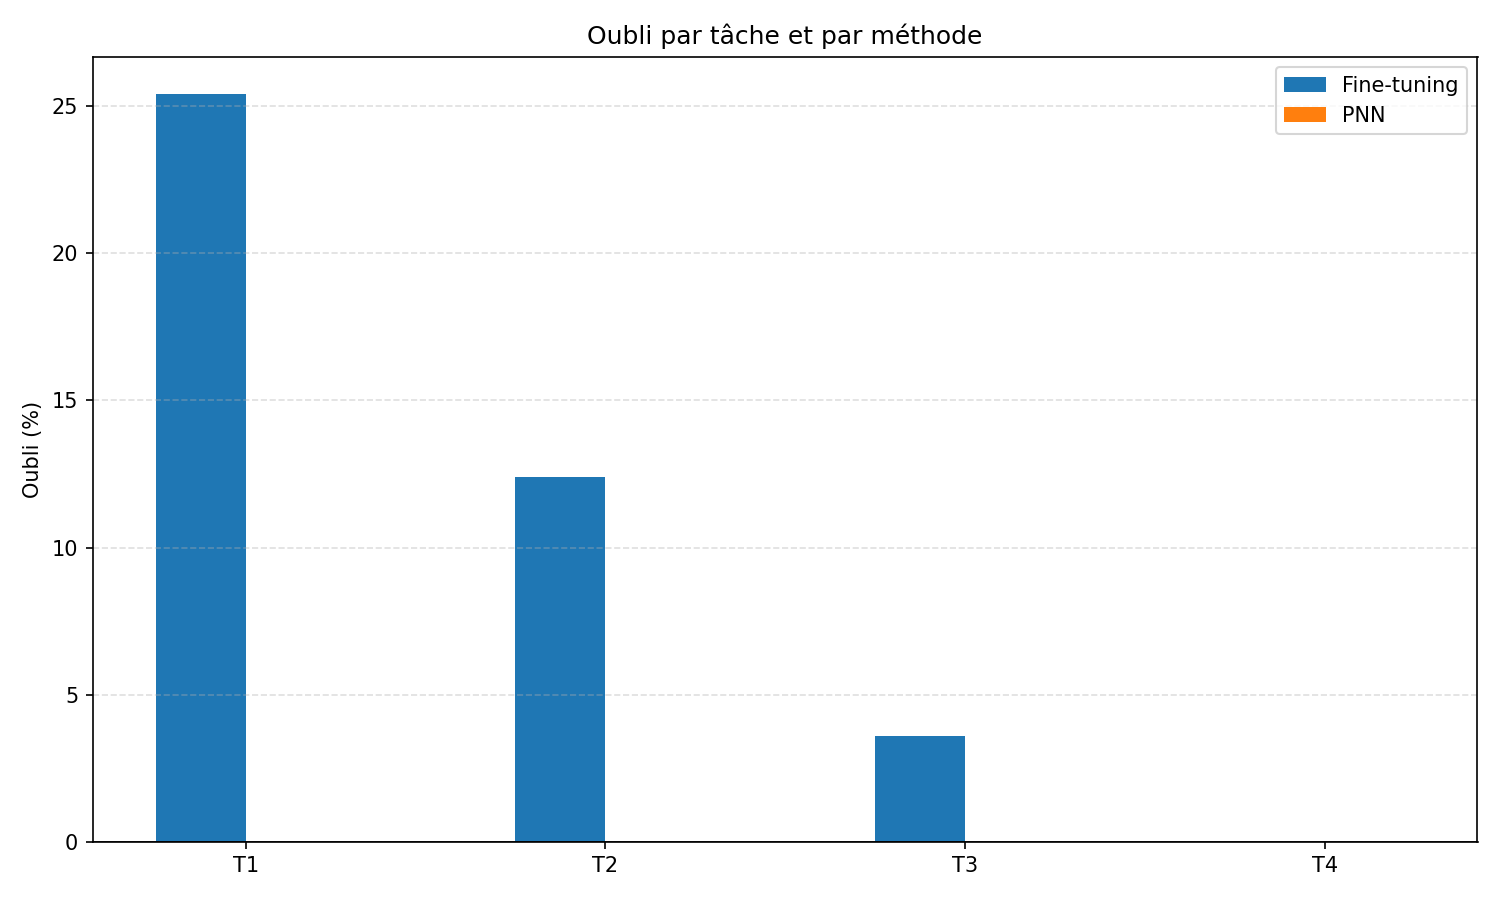
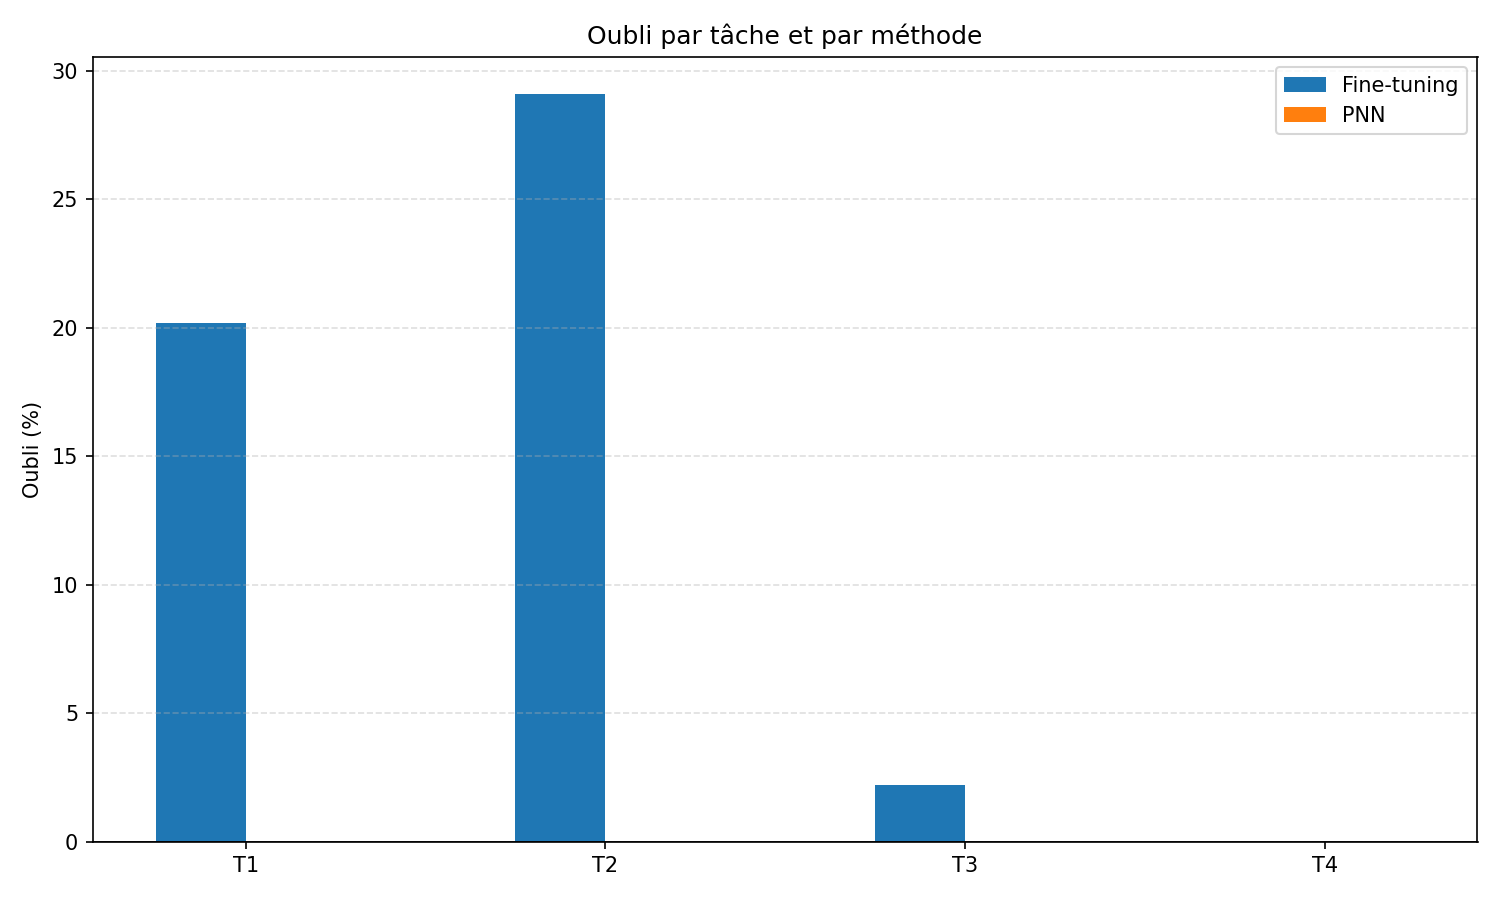
a relire mais a priori ok

diff --git a/demo.py b/demo.py
@@ -11,6 +11,8 @@ On compare 3 méthodes d'apprentissage multi-tâches :
 1. Modèles Indépendants : Un modèle par tâche (témoin)
 2. Fine-tuning : Entraîner sur Tâche 1 puis fine-tuner sur Tâche 2
 3. PNN : Progressive Neural Network avec connexions latérales
+
+Enfin, en ouverture, on teste l'impact du pruning sur le modèle PNN entraîné.
 """
 
 import torch
@@ -21,7 +23,6 @@ from datasets import load_dataset, load_from_disk
 from transformers import AutoTokenizer
 from pathlib import Path
 from PNN import ProgressiveNeuralNetwork
-import time
 import matplotlib.pyplot as plt
 
 # Configuration
@@ -31,9 +32,11 @@ HIDDEN_DIM = 64         # Dimension de la couche cachée
 EPOCHS = 100            # Époques d'entraînement
 BATCH_SIZE = 32         # Taille du batch
 
-# Configuration des tâches à comparer (ordonner ici)
-TASK_ORDER = ['binaire', 'negative', 'positive', 'full']  # choisissez 2, 3 ou 4 tâches
-NUM_TASKS = 4  # par exemple 3 pour comparer 3 tâches successives
+# Configuration des tâches à comparer (mettre dans l'ordre souhaité ici)
+TASK_ORDER = ['binaire', 'negative', 'positive', 'full']
+NUM_TASKS = 4  # entre 2 et 4 : par exemple 3 pour comparer 3 tâches successives
+# Choix des pourcentages de pruning à tester
+prune_percents = [0, 1, 5, 10, 20]
 
 print("=" * 80)
 print("COMPARAISON DE MÉTHODES - DATASET emotion")
@@ -46,9 +49,9 @@ print("=" * 80)
 # PRÉPARATION DES DONNÉES
 # ============================================================================
 print("\n[PRÉPARATION] Chargement du dataset texte...")
-#si données pas dans le dossier data, les télécharger
-saved_path = Path("data") / "emotion_text_dataset" / "saved"
 
+#si données pas déjà dans le dossier data, les télécharger
+saved_path = Path("data") / "emotion_text_dataset" / "saved"
 if not saved_path.exists():
     print("   --> Téléchargement du dataset emotion depuis HuggingFace...")
     dataset = load_dataset("emotion")
@@ -58,7 +61,8 @@ else:
     print("   --> Chargement du dataset emotion depuis le disque...")
     dataset = load_from_disk(str(saved_path))
 
-text_data = dataset['train']
+# Extraction des données textuelles et tokenization
+train_data, test_data = dataset['train'], dataset['test']
 tokenizer = AutoTokenizer.from_pretrained("distilbert-base-uncased")
 
 # Mapping des labels d'émotions
@@ -154,10 +158,11 @@ def create_task_data(original_features, original_labels, task_type, num_samples)
     
     return original_features, new_labels
 
-# Extraire toutes les features une fois
+# Extraire les features pour train et test
 print("   --> Extraction des features...")
-all_features, all_labels = extract_features(text_data, 5000)
-print(f"   OK - {len(all_features)} échantillons extraits")
+train_features, train_labels = extract_features(train_data, 5000)
+test_features, test_labels = extract_features(test_data, 2000)
+print(f"   OK - Train: {len(train_features)}, Test: {len(test_features)} échantillons extraits")
 
 
 
@@ -168,21 +173,28 @@ task_meta = {
     'full': ("Toutes Émotions (6 classes)", 6),
 }
 
-# Créer dynamiquement les tâches
+# Créer dynamiquement les tâches en utilisant train/val/test
 print("\n[TÂCHES DÉFINIES]")
 tasks = []
 for idx, task_type in enumerate(TASK_ORDER[:NUM_TASKS]):
     name, num_classes = task_meta[task_type]
-    feats, labs = create_task_data(all_features, all_labels, task_type, NUM_SAMPLES)
+    
+    # Créer les données pour chaque split
+    train_feats, train_labs = create_task_data(train_features, train_labels, task_type, NUM_SAMPLES)
+    test_feats, test_labs = create_task_data(test_features, test_labels, task_type, NUM_SAMPLES // 2)
+    
     tasks.append({
         'name': name,
         'type': task_type,
-        'features': feats,
-        'labels': labs,
+        'features': train_feats,      # Pour entraînement
+        'labels': train_labs,
+        'test_features': test_feats,  # Pour test
+        'test_labels': test_labs,
         'num_classes': num_classes,
     })
-    print(f"   Tâche {idx+1} : {name}")
-    print(f"           --> {len(feats)} échantillons, {num_classes} classes")
+    print(f"   Tâche {i+1} : {name}")
+    print(f"           --> Train: {len(train_feats)}, Test: {len(test_feats)}")
+    print(f"           --> {num_classes} classes")
 
 # ============================================================================
 # MÉTHODE 1 : MODÈLES INDÉPENDANTS (BASELINE)
@@ -234,20 +246,22 @@ def evaluate_model(model, features, labels):
         accuracy = 100 * correct / len(labels)
     return accuracy
 
-# Clone proprement un state_dict pour éviter le partage de tenseurs
 def clone_state_dict(state_dict):
+    """Clone proprement un state_dict pour éviter le partage de 
+    tenseurs lors de la phase de fine-tuning
+    """
     return {k: v.clone() for k, v in state_dict.items()}
 
-accs_independent = []
-models_independent = []
+accs_independent = [] # stocke les accuracies des modèles indépendants
+models_independent = [] # stocke les modèles indépendants
 
 for i, task in enumerate(tasks):
     print(f"   --> Entraînement Tâche {i+1} ({task['name']})...")
     model = train_model(task['features'], task['labels'], HIDDEN_DIM, task['num_classes'], EPOCHS, BATCH_SIZE)
-    acc = evaluate_model(model, task['features'], task['labels'])
+    acc = evaluate_model(model, task['test_features'], task['test_labels'])
     models_independent.append(model)
     accs_independent.append(acc)
-    print(f"       OK - Précision : {acc:.2f}%")
+    print(f"       OK - Précision (Test) : {acc:.2f}%")
 
 print(f"\n   RÉSULTATS :")
 for i, task in enumerate(tasks):
@@ -265,9 +279,9 @@ model_finetuned = train_model(tasks[0]['features'], tasks[0]['labels'], HIDDEN_D
                               tasks[0]['num_classes'], EPOCHS, BATCH_SIZE)
 
 # Accuracies courantes (après apprentissage de chaque tâche)
-accs_finetune_current = [evaluate_model(model_finetuned, tasks[0]['features'], tasks[0]['labels'])]
+accs_finetune_current = [evaluate_model(model_finetuned, tasks[0]['test_features'], tasks[0]['test_labels'])]
 saved_fc2_states = [clone_state_dict(model_finetuned.fc2.state_dict())]
-print(f"   OK - Tâche 1 : {accs_finetune_current[0]:.2f}%")
+print(f"   OK - Tâche 1 (Test) : {accs_finetune_current[0]:.2f}%")
 
 # Fine-tuning séquentiel pour les autres tâches
 for i in range(1, len(tasks)):
@@ -291,17 +305,17 @@ for i in range(1, len(tasks)):
             loss.backward()
             optimizer.step()
 
-    acc_current = evaluate_model(model_finetuned, task['features'], task['labels'])
+    acc_current = evaluate_model(model_finetuned, task['test_features'], task['test_labels'])
     accs_finetune_current.append(acc_current)
     saved_fc2_states.append(clone_state_dict(model_finetuned.fc2.state_dict()))
-    print(f"       OK - Précision Tâche {i+1} : {acc_current:.2f}%")
+    print(f"       OK - Précision Tâche {i+1} (Test) : {acc_current:.2f}%")
 
 # Évaluer l'oubli pour toutes les tâches en restaurant leurs couches
 accs_finetune_final = []
 for i, task in enumerate(tasks):
     model_finetuned.fc2 = nn.Linear(HIDDEN_DIM, task['num_classes'])
     model_finetuned.fc2.load_state_dict(saved_fc2_states[i])
-    acc = evaluate_model(model_finetuned, task['features'], task['labels'])
+    acc = evaluate_model(model_finetuned, task['test_features'], task['test_labels'])
     accs_finetune_final.append(acc)
 
 print(f"\n   RÉSULTATS :")
@@ -323,14 +337,14 @@ for i, task in enumerate(tasks):
     print(f"   --> Entraînement Tâche {i+1} ({task['name']})...")
     pnn.train_new_task(task['features'], task['labels'], hidden_dim=HIDDEN_DIM,
                        epochs=EPOCHS, batch_size=BATCH_SIZE)
-    acc = pnn.accuracy(task['features'], task['labels'], task_index=i)
+    acc = pnn.accuracy(task['test_features'], task['test_labels'], task_index=i)
     accs_pnn_before.append(acc)
-    print(f"       OK - Précision Tâche {i+1} : {acc:.2f}%")
+    print(f"       OK - Précision Tâche {i+1} (Test) : {acc:.2f}%")
 
 # Évaluer toutes les tâches après entraînement complet
 accs_pnn_after = []
 for i, task in enumerate(tasks):
-    acc = pnn.accuracy(task['features'], task['labels'], task_index=i)
+    acc = pnn.accuracy(task['test_features'], task['test_labels'], task_index=i)
     accs_pnn_after.append(acc)
 
 print(f"\n   RÉSULTATS :")
@@ -444,11 +458,6 @@ plt.tight_layout()
 plt.savefig("comparison_forgetting.png", dpi=150)
 print("Graphique de l'oubli enregistré dans comparison_forgetting.png")
 
-print("\n" + "=" * 80)
-print("OK - Comparaison terminée!")
-print("=" * 80)
-
-
 
 #####################################
 # Tests : Pruning PNN               #
@@ -468,7 +477,6 @@ else:
     import copy
     original_state = copy.deepcopy(pnn.state_dict())
     
-    prune_percents = [0, 0.2, 0.4, 0.6, 0.8]
     pruning_results = []
     
     for perc in prune_percents:
@@ -485,28 +493,37 @@ else:
             for w1, w2 in zip(weights_before, weights_after):
                 if w1.shape == w2.shape:
                     changed += (w1 != w2).sum().item()
-            print(f"   [DEBUG] Pruning {int(perc*100)}%: {changed} poids modifiés")
         
         # Compter les poids à zéro (neurones prunés)
         zero_params = sum((p == 0).sum().item() for p in pnn.parameters())
         non_zero_params = total_params - zero_params
         sparsity = 100 * zero_params / total_params if total_params > 0 else 0
         
-        # Évaluer les performances après pruning
+        # Évaluer les performances après pruning sur TRAIN et TEST
         try:
-            accs_after_prune = []
+            # Évaluation sur train
+            accs_train = []
             for i, task in enumerate(tasks):
                 acc = pnn.accuracy(task['features'], task['labels'], task_index=i)
-                accs_after_prune.append(acc)
-            avg_acc = sum(accs_after_prune) / len(accs_after_prune)
+                accs_train.append(acc)
+            avg_acc_train = sum(accs_train) / len(accs_train)
+            
+            # Évaluation sur test
+            accs_test = []
+            for i, task in enumerate(tasks):
+                acc = pnn.accuracy(task['test_features'], task['test_labels'], task_index=i)
+                accs_test.append(acc)
+            avg_acc_test = sum(accs_test) / len(accs_test)
             
             pruning_results.append({
                 'percentage': int(perc * 100),
                 'sparsity': sparsity,
                 'zero_params': zero_params,
                 'active_params': non_zero_params,
-                'accuracies': accs_after_prune,
-                'avg_accuracy': avg_acc
+                'train_accuracies': accs_train,
+                'test_accuracies': accs_test,
+                'avg_train': avg_acc_train,
+                'avg_test': avg_acc_test
             })
         except Exception as e:
             print(f"   Erreur lors de l'évaluation après pruning {int(perc*100)}% : {e}")
@@ -515,31 +532,28 @@ else:
     print("\n" + "=" * 80)
     print("TABLEAU DES RÉSULTATS DE PRUNING")
     print("=" * 80)
-    print(f"┌───────────┬─────────────┬─────────────┬─────────────┐")
-    print(f"│ Sparsité  │ Poids zéro  │ Poids actifs│ Acc. moyenne│")
-    print(f"├───────────┼─────────────┼─────────────┼─────────────┤")
+    print(f"┌───────────┬─────────────┬─────────────┬─────────────┬──────────┐")
+    print(f"│ Sparsité  │ Poids zéro  │ Poids actifs│Acc. Train %│Acc. Test%│")
+    print(f"├───────────┼─────────────┼─────────────┼─────────────┼──────────┤")
     for result in pruning_results:
-        print(f"│  {result['sparsity']:>6.2f}% │ {result['zero_params']:>11} │ {result['active_params']:>12} │   {result['avg_accuracy']:>6.2f}%   │")
-    print(f"└───────────┴─────────────┴─────────────┴─────────────┘")
+        print(f"│  {result['sparsity']:>6.2f}% │ {result['zero_params']:>11} │ {result['active_params']:>12} │   {result['avg_train']:>6.2f}%   │ {result['avg_test']:>6.2f}% │")
+    print(f"└───────────┴─────────────┴─────────────┴─────────────┴──────────┘")
     
     # Graphique des résultats
-    fig, ax = plt.subplots(1, 1, figsize=(10, 6))
+    fig, ax = plt.subplots(1, 1, figsize=(12, 6))
     
     pruning_levels = [r['percentage'] for r in pruning_results]
-    avg_accs = [r['avg_accuracy'] for r in pruning_results]
+    train_accs = [r['avg_train'] for r in pruning_results]
+    test_accs = [r['avg_test'] for r in pruning_results]
     
-    # Précision moyenne
-    ax.plot(pruning_levels, avg_accs, 's-', linewidth=2.5, markersize=10, color='tab:orange', label='Acc. moyenne', zorder=3)
-    
-    # Ajouter les précisions individuelles par tâche
-    for task_idx in range(len(tasks)):
-        task_accs = [r['accuracies'][task_idx] for r in pruning_results]
-        ax.plot(pruning_levels, task_accs, '--', alpha=0.6, marker='o', markersize=6, label=f'Tâche {task_idx+1}')
+    # Tracer train et test
+    ax.plot(pruning_levels, train_accs, 'o-', linewidth=2.5, markersize=10, label='Train', color='tab:green')
+    ax.plot(pruning_levels, test_accs, '^-', linewidth=2.5, markersize=10, label='Test', color='tab:red')
     
     ax.set_xlabel('Sparsité (%)', fontsize=13)
-    ax.set_ylabel('Précision (%)', fontsize=13)
-    ax.set_title('Impact du pruning sur la précision', fontsize=15, fontweight='bold')
-    ax.legend(loc='best', fontsize=10)
+    ax.set_ylabel('Précision moyenne (%)', fontsize=13)
+    ax.set_title('Impact du pruning sur la précision (Train/Test)', fontsize=15, fontweight='bold')
+    ax.legend(loc='best', fontsize=11)
     ax.grid(True, alpha=0.3)
     
     plt.tight_layout()

diff --git a/PNN.py b/PNN.py
@@ -25,42 +25,42 @@ class ProgressiveNeuralNetwork(nn.Module):
 
     def prune(self, percentage):
         """
-        Prune the network by actually removing weights with smallest magnitude.
-        This creates new, smaller weight matrices.
+        Élaguer (Prune) le réseau en supprimant réellement les poids de plus petite magnitude.
+        De cette manière, on crée des nouvelles matrices de poids plus petites.
         
         Args:
-            percentage: Percentage of weights to prune (0-100)
+            percentage: Pourcentage de poids à élaguer (0-100)
         """
         import torch.nn.utils.prune as prune
         
         for column in self.columns:
             for module in column.modules():
                 if isinstance(module, nn.Linear):
-                    # First apply the pruning mask
+                    # On commence par appliquer le masque de pruning
                     prune.l1_unstructured(module, name='weight', amount=percentage / 100)
                     
-                    # Then permanently remove it (converts mask to actual zeros in parameter)
+                    # Ensuite, on supprime définitivement les poids (convertit le masque en zéros réels dans le paramètre)
                     prune.remove(module, 'weight')
                     
-                    # Now filter out the zero rows/columns by creating new smaller weight matrix
+                    # Maintenant, filtrer les lignes/colonnes nulles en créant une nouvelle matrice de poids plus petite
                     weight = module.weight.data
                     bias = module.bias.data if module.bias is not None else None
                     
-                    # Find which rows (output neurons) have any non-zero values
+                    # Trouver quelles lignes (neurones de sortie) ont des valeurs non nulles
                     active_rows = (weight.abs().sum(dim=1) > 0)
                     
                     if active_rows.sum() > 0 and active_rows.sum() < weight.shape[0]:
-                        # Create new layer with fewer output neurons
+                        # Créer une nouvelle couche linéaire de dimension réduite
                         new_out_features = active_rows.sum().item()
                         new_linear = nn.Linear(module.in_features, new_out_features)
                         
-                        # Copy the active rows
+                        # Copier les lignes actives dans la nouvelle couche
                         new_linear.weight.data = weight[active_rows, :]
                         if bias is not None:
                             new_linear.bias.data = bias[active_rows]
                         
-                        # Replace the old module in-place
-                        # Find parent and replace
+                        # Remplacer l'ancien module sur place
+                        # On doit parcourir les attributs du parent pour faire le remplacement
                         for parent_name, parent in column.named_children():
                             if parent is module:
                                 setattr(column, parent_name, new_linear)
